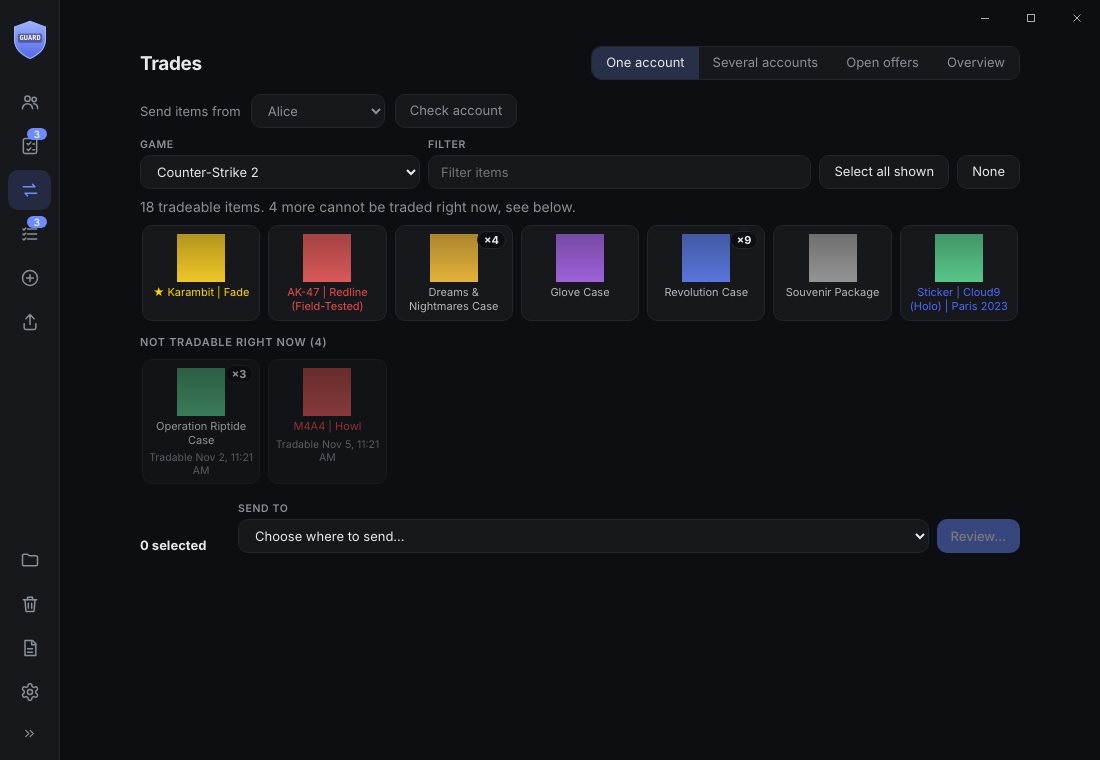
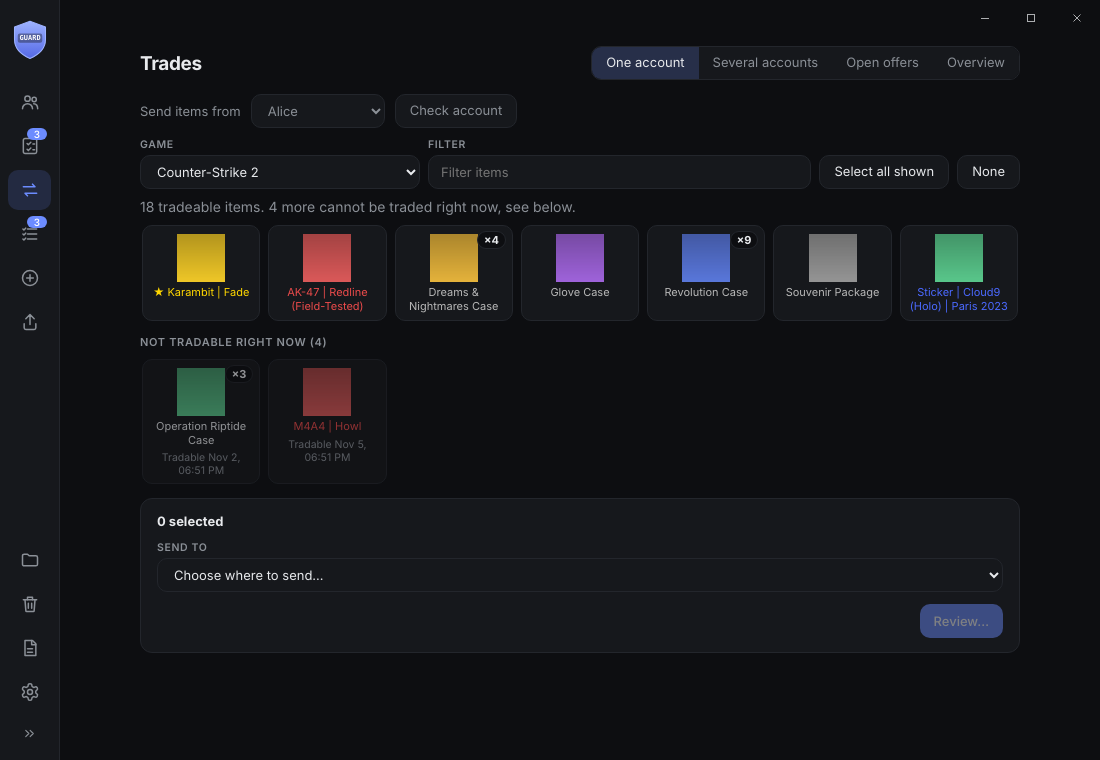
Trades: Check account reports only sign-in and bans; Send area as one panel
Claude-Session: https://claude.ai/code/session_01DW1HzNu7DPUhuZ6F8TPH3n

diff --git a/src/renderer/main.ts b/src/renderer/main.ts
@@ -2330,7 +2330,7 @@ async function tradesScreen(wanted?: string): Promise<void> {
 	const targetSel = el('select', { ariaLabel: 'Send to' });
 	const linkInput = el('input', { type: 'text', class: 'search', placeholder: 'https://steamcommunity.com/tradeoffer/new/?partner=…&token=…', ariaLabel: 'Trade link', spellcheck: false });
 	const linkName = el('input', { type: 'text', class: 'search', placeholder: 'Name to save it under', ariaLabel: 'Name for the trade link', maxLength: 30, spellcheck: false });
-	const linkBox = el('div', { class: 'link-box' }, linkInput, el('div', { class: 'link-save' }, linkName,
+	const linkBox = el('div', { class: 'link-box' }, field('Trade link', linkInput), el('div', { class: 'link-save' }, field('Save as (optional)', linkName),
 		el('button', { class: 'small', type: 'button', textContent: 'Save link', onclick: async () => {
 			const r = await api.tradeLinkSave(linkName.value, linkInput.value);
 			if (!r.ok) return toast(r.error, true);
@@ -2338,16 +2338,15 @@ async function tradesScreen(wanted?: string): Promise<void> {
 			drawTargets(`l:${linkInput.value.trim()}`);
 			toast('Trade link saved');
 		} })));
-	const savedBox = el('div', { class: 'link-box' }, el('div', { class: 'link-save' }, el('span', { class: 'hint', textContent: 'Saved trade link' }),
-		el('button', { class: 'small danger', type: 'button', textContent: 'Remove', onclick: async () => {
-			const cur = targetSel.value;
-			if (!cur.startsWith('l:')) return;
-			const r = await api.tradeLinkRemove(cur.slice(2));
-			if (!r.ok) return toast(r.error, true);
-			savedLinks = r.value;
-			drawTargets();
-		} })));
-	const showLinkBoxes = (): void => { linkBox.hidden = targetSel.value !== 'paste'; savedBox.hidden = !targetSel.value.startsWith('l:'); };
+	const removeBtn = el('button', { class: 'small danger', type: 'button', textContent: 'Remove', title: 'Remove this saved trade link', onclick: async () => {
+		const cur = targetSel.value;
+		if (!cur.startsWith('l:')) return;
+		const r = await api.tradeLinkRemove(cur.slice(2));
+		if (!r.ok) return toast(r.error, true);
+		savedLinks = r.value;
+		drawTargets();
+	} });
+	const showLinkBoxes = (): void => { linkBox.hidden = targetSel.value !== 'paste'; removeBtn.hidden = !targetSel.value.startsWith('l:'); };
 	function drawTargets(select = ''): void {
 		const group = (label: string, opts: HTMLOptionElement[]): HTMLElement[] => {
 			if (!opts.length) return [];
@@ -2527,16 +2526,17 @@ async function tradesScreen(wanted?: string): Promise<void> {
 			info,
 			grid,
 			lockedBox,
-			el('div', { class: 'send-to' }, el('div', { class: 'send-count' }, count), field('Send to', targetSel), sendBtn),
-			linkBox,
-			savedBox,
+			el('section', { class: 'send-panel' },
+				el('div', { class: 'send-panel-head' }, count),
+				field('Send to', el('div', { class: 'target-row' }, targetSel, removeBtn)),
+				linkBox,
+				el('div', { class: 'send-panel-foot' }, sendBtn)),
 			confirmBox,
 			result)
 	);
 	void load();
 }
 
-/** What may stop an account from trading, for the Trades tab. */
 /** One answer instead of a list: can it trade, and if not or not sure, why. */
 const verdict = (lines: { level: 'ok' | 'warn' | 'bad'; text: string }[]): HTMLElement[] => {
 	const bad = lines.filter((l) => l.level === 'bad');
@@ -2545,7 +2545,7 @@ const verdict = (lines: { level: 'ok' | 'warn' | 'bad'; text: string }[]): HTMLE
 	return [
 		el('div', { class: `health ${head[0]}` }, el('strong', { textContent: head[1] })),
 		...[...bad, ...warn].map((l) => el('div', { class: `health ${l.level}` }, el('span', { class: 'hint', textContent: l.text }))),
-		el('p', { class: 'hint fine', textContent: 'Based on the sign-in, the public profile and the ban check. Steam has the final say.' })
+		el('p', { class: 'hint fine', textContent: 'Based on the sign-in and the ban check. Steam has the final say.' })
 	];
 };
 const tradeNotes = (a: Row): string[] => [...a.bans.filter((b) => b.startsWith('Trade')).map((b) => `${b}: Steam blocks or limits trading`)];

diff --git a/src/main/index.ts b/src/main/index.ts
@@ -494,27 +494,18 @@ function registerIpc(): void {
 		await cancelOffer(fetchHttp, await accounts.webToken(id), str(offerId, 'offer'));
 		log.info('trade', `${accounts.get(id)!.accountName}: cancelled offer ${String(offerId)}`);
 	});
-	/** Can this account trade right now? Live checks (sign-in, trade link) first, then what is already known. */
+	/** Can this account trade right now? The sign-in is tried live; bans are what the public profile said at its last read. */
 	handle('tradeCheck', async (steamId: unknown) => {
 		const id = known(steamId);
 		const lines: { level: 'ok' | 'warn' | 'bad'; text: string }[] = [];
-		let cookie: string | undefined;
 		try {
-			cookie = await cookieOf(id);
+			await cookieOf(id);
 			lines.push({ level: 'ok', text: 'Signed in, Steam accepts the session' });
 		} catch (err) {
 			lines.push({ level: 'bad', text: err instanceof UserError ? err.message : 'Could not reach Steam' });
 		}
-		if (cookie) {
-			try {
-				const link = await fetchOwnTradeLink(fetchHttp, id, cookie);
-				lines.push(link ? { level: 'ok', text: 'Has a trade link, so it can receive items' } : { level: 'warn', text: 'No trade link found on its trade offer privacy page, so it cannot receive from your other accounts until it has one' });
-			} catch (err) {
-				lines.push({ level: 'warn', text: err instanceof UserError ? err.message : 'Could not read its trade link' });
-			}
-		}
 		for (const b of banLabels(avatars.bans(id))) lines.push({ level: b.startsWith('Trade') ? 'bad' : 'warn', text: b.startsWith('Trade') ? `${b}: Steam blocks or limits trading` : b });
-		if (!lines.some((l) => l.level !== 'ok')) lines.push({ level: 'ok', text: 'No ban, limit or new authenticator known' });
+		if (!lines.some((l) => l.level !== 'ok')) lines.push({ level: 'ok', text: 'No ban known' });
 		return lines;
 	});
 	handle('tradeLinks', () => settings.get().tradeLinks);

diff --git a/src/renderer/style.css b/src/renderer/style.css
@@ -543,10 +543,16 @@ button:active:not(:disabled) { transform: scale(.97); }
 .send-count { min-width: 90px; font-size: 13px; }
 .link-box { display: flex; flex-direction: column; gap: 6px; margin-top: 8px; }
 .link-box[hidden], .send-confirm[hidden] { display: none; }
-.link-save { display: flex; align-items: center; gap: 8px; }
-.link-save input { flex: 1; min-width: 0; width: auto; }
-.link-save .hint { flex: 1; margin: 0; }
+.link-save { display: flex; align-items: flex-end; gap: 8px; }
+.link-save .labelled { flex: 1; min-width: 0; }
 .link-save button { flex: none; }
+.send-panel { display: flex; flex-direction: column; gap: 12px; margin-top: 12px; padding: 14px 16px; background: var(--surface); border: 1px solid var(--line); border-radius: 12px; }
+.send-panel .link-box { margin: 0; gap: 12px; }
+.send-panel-head { font-size: 13px; }
+.send-panel-foot { display: flex; justify-content: flex-end; }
+.target-row { display: flex; gap: 8px; }
+.target-row select { flex: 1; min-width: 0; }
+.target-row button[hidden] { display: none; }
 .send-confirm { display: flex; flex-direction: column; gap: 10px; margin-top: 12px; padding: 14px 16px; background: var(--surface); border: 1px solid color-mix(in srgb, var(--warn) 55%, var(--line)); border-radius: 12px; animation: rise .2s ease-out; }
 .send-confirm p { margin: 0; }
 .confirm-actions { display: flex; align-items: center; gap: 8px; }

diff --git a/CHANGELOG.md b/CHANGELOG.md
@@ -29,7 +29,7 @@
 - Log: a "Trades" filter shows every trade, with each offer's items in the details (count per item name), who sent to whom, and whether it was confirmed.
 - Trades: reading another account's trade link now follows Steam's move from the numeric profile address to a custom address (that was a likely cause of "refused reading the trade link (HTTP 302)"). The saved-link controls no longer run off the edge: the name field and Save link share one row, and Remove only shows for a saved link.
 - Trades: when Steam refuses a request, the message now says which step it was (reading the inventory, the trade link, the open offers, sending, cancelling) and the HTTP number, and the Log tab records it.
-- Trades tab, check: "Check account" gives one answer: Can trade now, Can trade but watch out, or Cannot trade right now, with the reasons underneath (session, trade link, bans).
+- Trades tab, check: "Check account" gives one answer: Can trade now, Can trade but watch out, or Cannot trade right now, with the reasons underneath (sign-in session and bans).
 - Trades tab, open offers: lists the offers an account (or all accounts) sent that nobody accepted yet, with Cancel and Cancel all, in a list that uses the full window height. Uses Steam's trade offer service with the account's own sign-in, so no API key. Not tested against live Steam.
 - Trades tab, overview: reads every account's inventory one after another (1.2 s apart, stops on a rate limit) and shows tradable and locked items per account with a total. Click an account to send from it.
 - Backup and restore (Settings, Import and updates): one file with every maFile, saved password, note and tag, sealed with AES-256-GCM and a password you choose (8 or more characters). Restoring only adds accounts that are missing and never changes existing ones.

diff --git a/README.md b/README.md
@@ -54,7 +54,7 @@ Minimal desktop Steam Guard authenticator (Electron + TypeScript, no UI framewor
   A refresh token is kept in `sessions.json` (plain text).
 - **Copy** username, password (if saved), shared secret, identity secret, revocation code, SteamID64.
 - **Profile pictures** from the public profile (no API key), at most once a week per account.
-- **Trades tab, check:** one button tells whether an account can trade right now (session, trade link, bans).
+- **Trades tab, check:** one button tells whether an account can trade right now (sign-in session and bans).
 - **Trades tab, open offers:** see offers that nobody accepted yet, per account or all at once, and cancel them.
 - **Trades tab, overview:** how many tradable and locked items every account holds in a game, with a total.
 - **Backup:** one encrypted file with all maFiles, saved passwords, notes and tags (Settings, Import and updates). Restoring only adds missing accounts.
